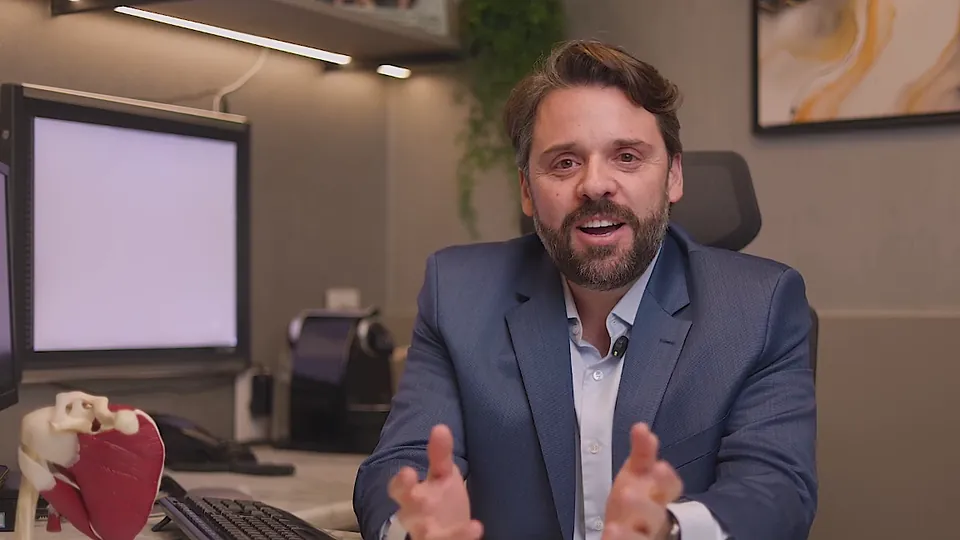
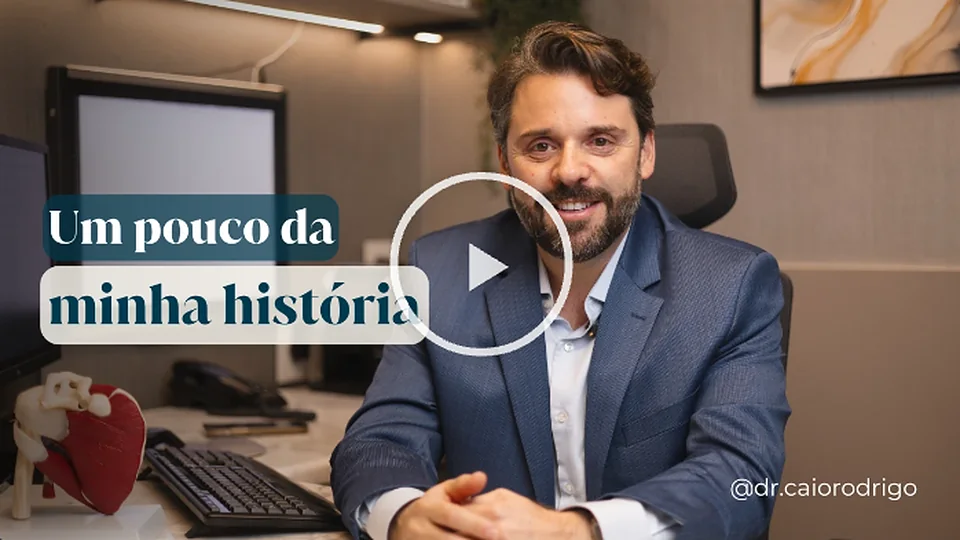
Usa os prints do Instagram como capas da história e dos depoimentos
As capas já trazem título, play e @, então esses cartões perdem a
sobreposição em HTML e a imagem fica parada ao rolar para não cortar o
texto. O anel de carregamento continua aparecendo ao tocar.

diff --git a/site/index.html b/site/index.html
@@ -38,7 +38,7 @@
   <link rel="preload" as="image" type="image/webp"
         imagesrcset="assets/img/dr-caio-rodrigo-inicial-520.webp 520w, assets/img/dr-caio-rodrigo-inicial-800.webp 800w, assets/img/dr-caio-rodrigo-inicial-1100.webp 1100w, assets/img/dr-caio-rodrigo-inicial-1500.webp 1500w"
         imagesizes="(min-width: 56em) 44vw, (min-width: 40em) 30rem, 92vw" fetchpriority="high">
-  <link rel="stylesheet" href="assets/css/styles.css?v=19">
+  <link rel="stylesheet" href="assets/css/styles.css?v=20">
   <script>document.documentElement.classList.add('js');</script>
 
   <!-- Dados estruturados (Google) -->
@@ -217,7 +217,7 @@
       <a class="brand" href="#inicio" aria-label="Dr. Caio Rodrigo, ortopedista de ombro e cotovelo. Voltar ao início">
         <picture>
           <source media="(max-width: 47.99em)" srcset="assets/logo/logo-horizontal-navy-4x.png?v=1">
-          <img src="assets/logo/logo-horizontal-navy.svg?v=4" alt="Dr. Caio Rodrigo, Ortopedista de Ombro e Cotovelo" width="232" height="38">
+          <img src="assets/logo/logo-horizontal-navy.svg?v=5" alt="Dr. Caio Rodrigo, Ortopedista de Ombro e Cotovelo" width="232" height="38">
         </picture>
       </a>
 
@@ -362,7 +362,7 @@
               </picture>
             </div>
             <div class="about__signature">
-              <img src="assets/logo/logo-icone-navy.svg?v=4" alt="" width="34" height="46">
+              <img src="assets/logo/logo-icone-navy.svg?v=5" alt="" width="34" height="46">
               <div>
                 <strong>Cirurgião de ombro e cotovelo</strong>
                 <span>Ortopedia e Traumatologia</span>
@@ -384,15 +384,13 @@
             <h3>Uma mensagem do Dr. Caio para você</h3>
             <p>Em pouco mais de um minuto, ele conta como trabalha e o que você pode esperar do tratamento.</p>
           </div>
-          <a class="video video--wide" href="assets/video/historia-dr-caio-rodrigo.mp4?v=4" data-src-small="assets/video/historia-dr-caio-rodrigo-360.mp4?v=4" data-video data-reveal="slide" style="--i:1"
+          <a class="video video--wide video--baked" href="assets/video/historia-dr-caio-rodrigo.mp4?v=5" data-src-small="assets/video/historia-dr-caio-rodrigo-360.mp4?v=5" data-video data-reveal="slide" style="--i:1"
              aria-label="Assistir ao vídeo de apresentação do Dr. Caio Rodrigo, 1 minuto e 18 segundos">
             <picture>
-              <source type="image/webp" srcset="assets/img/poster-historia-dr-caio-640.webp?v=4 640w, assets/img/poster-historia-dr-caio-960.webp?v=4 960w, assets/img/poster-historia-dr-caio-1280.webp?v=4 1280w" sizes="(min-width: 56em) 46rem, 92vw">
-              <img src="assets/img/poster-historia-dr-caio-960.jpg?v=4" width="1280" height="720" loading="lazy" decoding="async" alt="">
+              <source type="image/webp" srcset="assets/img/poster-historia-dr-caio-640.webp?v=5 640w, assets/img/poster-historia-dr-caio-960.webp?v=5 960w, assets/img/poster-historia-dr-caio-1280.webp?v=5 1280w" sizes="(min-width: 56em) 46rem, 92vw">
+              <img src="assets/img/poster-historia-dr-caio-960.jpg?v=5" width="1280" height="720" loading="lazy" decoding="async" alt="">
             </picture>
-            <span class="video__title" aria-hidden="true"><span>Um pouco da</span><span>minha história</span></span>
             <span class="video__play" aria-hidden="true"><svg class="icon"><use href="#i-play"/></svg></span>
-            <span class="video__label" aria-hidden="true"><span></span><span>@dr.caiorodrigo</span></span>
           </a>
         </div>
       </div>
@@ -472,11 +470,11 @@
         <div class="treatments__grid">
           <article class="treatment treatment--feature" data-reveal="slide">
             <div class="treatment__media" data-parallax>
-              <a class="video" href="assets/video/artroscopia-do-ombro.mp4?v=4" data-src-small="assets/video/artroscopia-do-ombro-360.mp4?v=4" data-video
+              <a class="video" href="assets/video/artroscopia-do-ombro.mp4?v=5" data-src-small="assets/video/artroscopia-do-ombro-360.mp4?v=5" data-video
                  aria-label="Assistir ao vídeo do Dr. Caio sobre artroscopia do ombro, 34 segundos">
                 <picture>
-                  <source type="image/webp" srcset="assets/img/poster-artroscopia-640.webp?v=4 640w, assets/img/poster-artroscopia-960.webp?v=4 960w, assets/img/poster-artroscopia-1280.webp?v=4 1280w" sizes="(min-width: 64em) 44rem, 92vw">
-                  <img src="assets/img/poster-artroscopia-960.jpg?v=4" width="1280" height="720" loading="lazy" decoding="async"
+                  <source type="image/webp" srcset="assets/img/poster-artroscopia-640.webp?v=5 640w, assets/img/poster-artroscopia-960.webp?v=5 960w, assets/img/poster-artroscopia-1280.webp?v=5 1280w" sizes="(min-width: 64em) 44rem, 92vw">
+                  <img src="assets/img/poster-artroscopia-960.jpg?v=5" width="1280" height="720" loading="lazy" decoding="async"
                        alt="Dr. Caio Rodrigo em seu consultório explicando como funciona a artroscopia do ombro">
                 </picture>
                 <span class="video__title" aria-hidden="true"><span>Como funciona a</span><span>artroscopia</span></span>
@@ -618,30 +616,28 @@
         <div class="stories__videos">
           <div class="story" data-reveal="slide" style="--i:1">
             <figure>
-              <a class="video video--tall" href="assets/video/depoimento-anita-maria.mp4?v=4" data-video data-fullscreen-mobile
+              <a class="video video--tall video--baked" href="assets/video/depoimento-anita-maria.mp4?v=5" data-video data-fullscreen-mobile
                  aria-label="Assistir ao depoimento de Anita Maria Nascimento, 1 minuto e 29 segundos">
                 <picture>
-                  <source type="image/webp" srcset="assets/img/poster-depoimento-anita-maria-404.webp?v=4 404w, assets/img/poster-depoimento-anita-maria-540.webp?v=4 540w" sizes="(min-width: 64em) 17rem, 46vw">
-                  <img src="assets/img/poster-depoimento-anita-maria-540.jpg?v=4" width="540" height="960" loading="lazy" decoding="async" alt="">
+                  <source type="image/webp" srcset="assets/img/poster-depoimento-anita-maria-404.webp?v=5 404w, assets/img/poster-depoimento-anita-maria-540.webp?v=5 540w" sizes="(min-width: 64em) 17rem, 46vw">
+                  <img src="assets/img/poster-depoimento-anita-maria-540.jpg?v=5" width="540" height="960" loading="lazy" decoding="async" alt="">
                 </picture>
-                <span class="video__title" aria-hidden="true"><span>Depoimento</span><span>Anita Maria</span></span>
                 <span class="video__play" aria-hidden="true"><svg class="icon"><use href="#i-play"/></svg></span>
-                <span class="video__label" aria-hidden="true"><span>@dr.caiorodrigo</span><time datetime="PT1M29S">1:29</time></span>
+                <span class="video__label" aria-hidden="true"><span></span><time datetime="PT1M29S">1:29</time></span>
               </a>
               <figcaption><strong>Anita Maria Nascimento</strong><span>Paciente</span></figcaption>
             </figure>
           </div>
           <div class="story" data-reveal="slide" style="--i:2">
             <figure>
-              <a class="video video--tall" href="assets/video/depoimento-frederico.mp4?v=4" data-video data-fullscreen-mobile
+              <a class="video video--tall video--baked" href="assets/video/depoimento-frederico.mp4?v=5" data-video data-fullscreen-mobile
                  aria-label="Assistir ao depoimento de Frederico Feitosa, 1 minuto e 27 segundos">
                 <picture>
-                  <source type="image/webp" srcset="assets/img/poster-depoimento-frederico-404.webp?v=4 404w, assets/img/poster-depoimento-frederico-540.webp?v=4 540w" sizes="(min-width: 64em) 17rem, 46vw">
-                  <img src="assets/img/poster-depoimento-frederico-540.jpg?v=4" width="540" height="960" loading="lazy" decoding="async" alt="">
+                  <source type="image/webp" srcset="assets/img/poster-depoimento-frederico-404.webp?v=5 404w, assets/img/poster-depoimento-frederico-540.webp?v=5 540w" sizes="(min-width: 64em) 17rem, 46vw">
+                  <img src="assets/img/poster-depoimento-frederico-540.jpg?v=5" width="540" height="960" loading="lazy" decoding="async" alt="">
                 </picture>
-                <span class="video__title" aria-hidden="true"><span>Depoimento</span><span>Frederico</span></span>
                 <span class="video__play" aria-hidden="true"><svg class="icon"><use href="#i-play"/></svg></span>
-                <span class="video__label" aria-hidden="true"><span>@dr.caiorodrigo</span><time datetime="PT1M27S">1:27</time></span>
+                <span class="video__label" aria-hidden="true"><span></span><time datetime="PT1M27S">1:27</time></span>
               </a>
               <figcaption><strong>Frederico Feitosa</strong><span>Paciente, professor de Educação Física</span></figcaption>
             </figure>
@@ -790,7 +786,7 @@
     <div class="container">
       <div class="footer__grid">
         <div class="footer__brand">
-          <img src="assets/logo/logo-vertical-creme.svg?v=4" alt="Dr. Caio Rodrigo, Ortopedista de Ombro e Cotovelo" width="220" height="82" loading="lazy">
+          <img src="assets/logo/logo-vertical-creme.svg?v=5" alt="Dr. Caio Rodrigo, Ortopedista de Ombro e Cotovelo" width="220" height="82" loading="lazy">
           <p>Médico ortopedista com atuação em cirurgia do ombro e do cotovelo em Brasília.</p>
         </div>
 

diff --git a/site/assets/css/styles.css b/site/assets/css/styles.css
@@ -944,6 +944,14 @@ html.menu-open { overflow: hidden; }
 .video.is-playing .video__play,
 .video.is-playing .video__title,
 .video.is-playing .video__label { opacity: 0; pointer-events: none; }
+/* Capas com título e play já desenhados na imagem (prints do Instagram):
+   o anel do HTML só aparece girando enquanto o vídeo carrega, e a imagem
+   fica parada para não cortar o texto das bordas */
+.video--baked .video__play { opacity: 0; }
+.video--baked picture { animation: none !important; transform: none !important; }
+@media (hover: hover) {
+  .video--baked:hover img { transform: scale(1.02); }
+}
 /* Enquanto o vídeo baixa os primeiros segundos, o anel gira por cima dele */
 .video.is-playing.is-loading .video__play { opacity: 1; z-index: 3; pointer-events: none; }
 .video.is-loading .video__play .icon { opacity: 0; }
